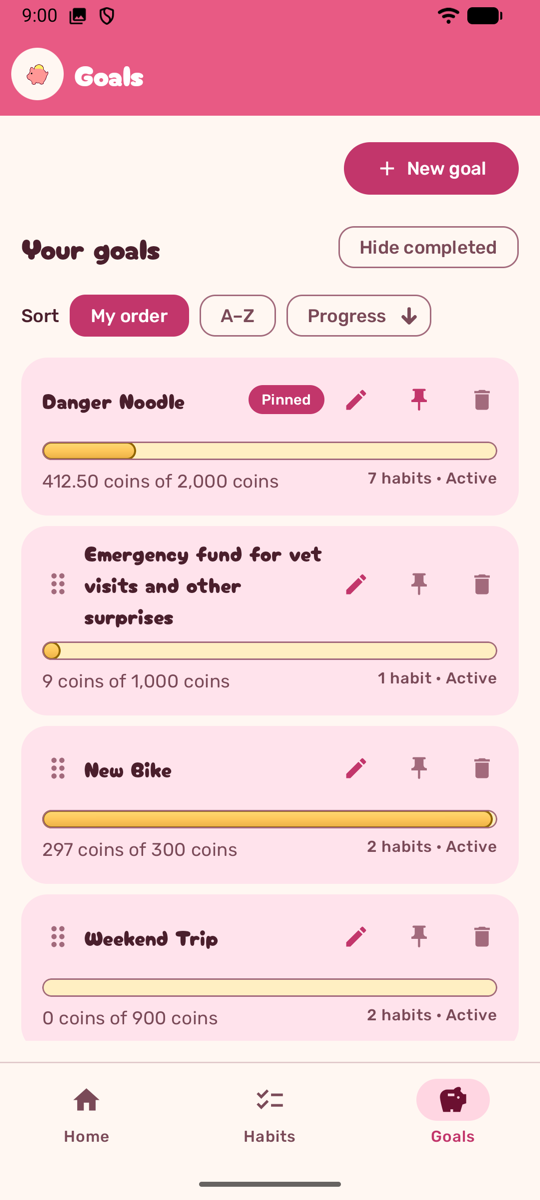
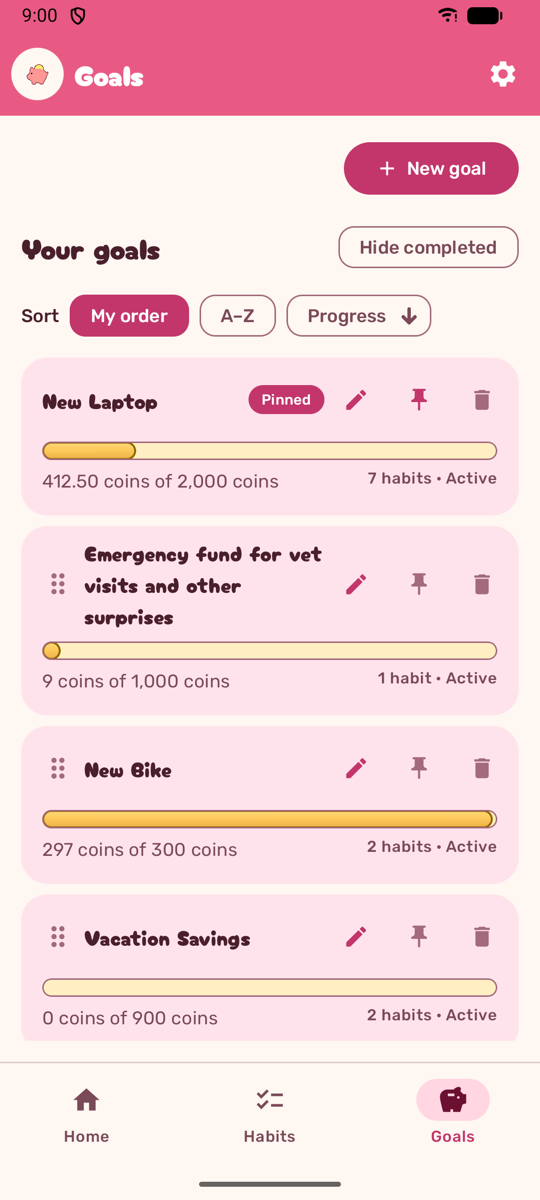
Use approachable goal names in the demo data and screenshots
Rename Danger Noodle to New Laptop, Weekend Trip to Vacation Savings,
and the archived Old Laptop Fund to Phone Upgrade, then retake the
README screenshots from the reseeded emulator.

diff --git a/app/src/test/java/com/example/habittracker/ui/goals/GoalListOrderTest.kt b/app/src/test/java/com/example/habittracker/ui/goals/GoalListOrderTest.kt
@@ -29,10 +29,10 @@ class GoalListOrderTest {
 
     private val trip = goal(1, "trip", saved = "10", createdDay = 2, order = 3)
     private val bike = goal(2, "Bike", saved = "90", createdDay = 5, status = SavingsGoalStatus.COMPLETED)
-    private val noodle = goal(3, "Danger Noodle", saved = "20", createdDay = 9, pinned = true)
+    private val newLaptop = goal(3, "New Laptop", saved = "20", createdDay = 9, pinned = true)
     private val laptop = goal(4, "Laptop", saved = "100", createdDay = 1, status = SavingsGoalStatus.ARCHIVED)
     private val amp = goal(5, "Amp", saved = "60", createdDay = 4, order = 1)
-    private val all = listOf(trip, bike, noodle, laptop, amp)
+    private val all = listOf(trip, bike, newLaptop, laptop, amp)
 
     private fun ids(sort: GoalSort, hide: Boolean = false) = goalsForList(all, sort, hide).map { it.id }
 
